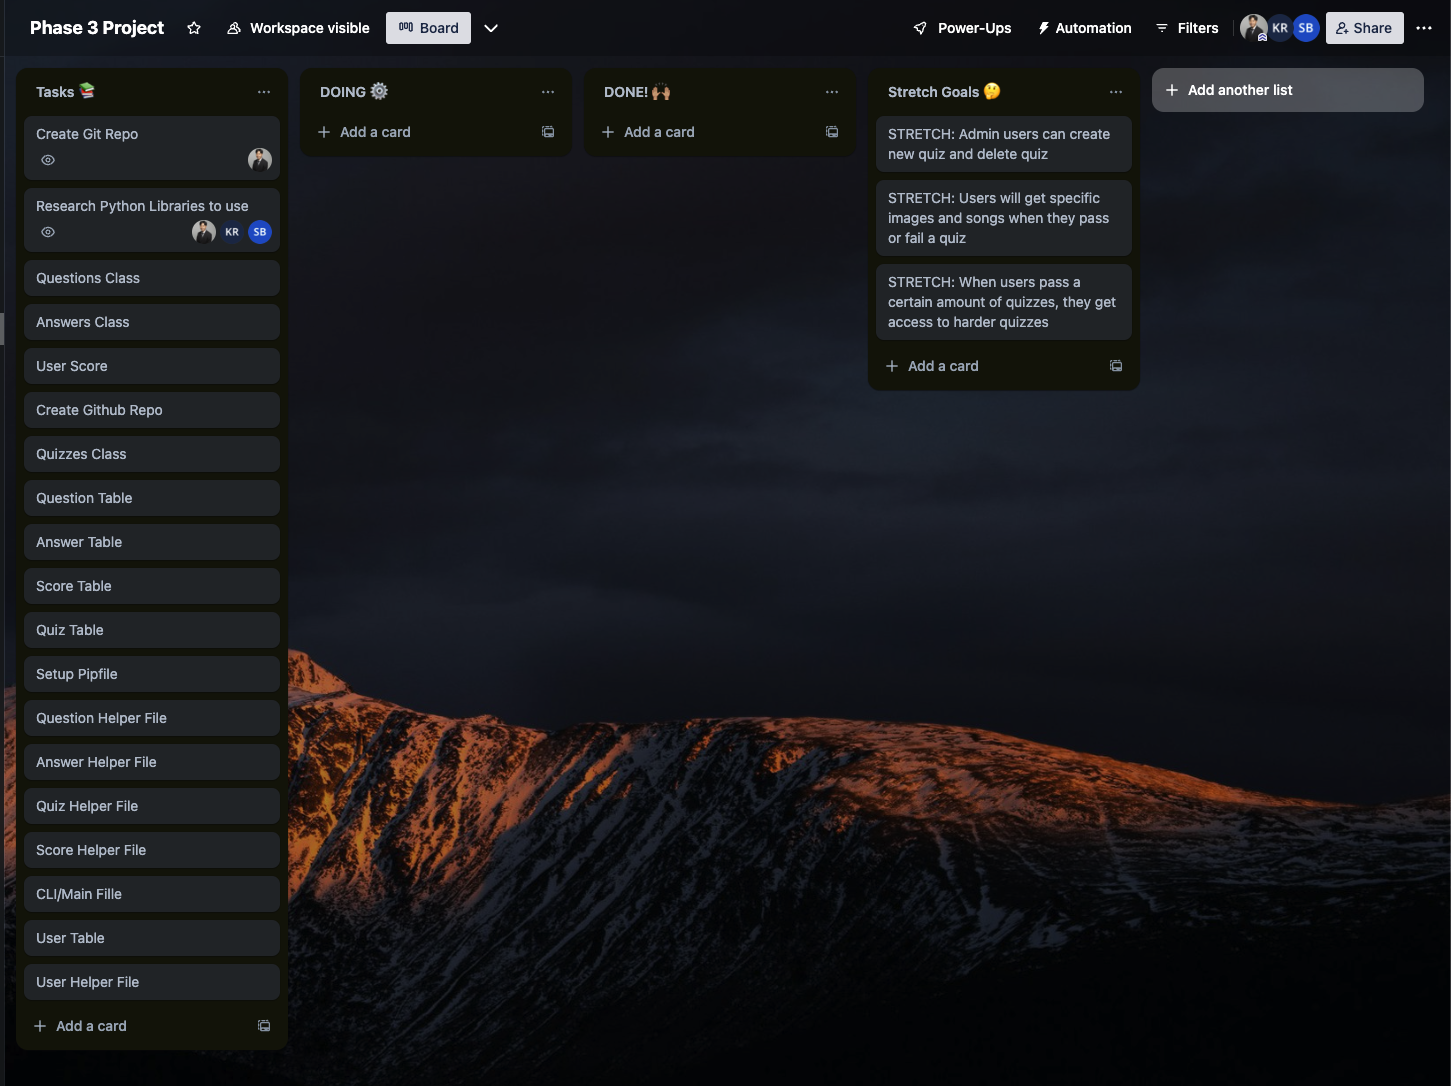
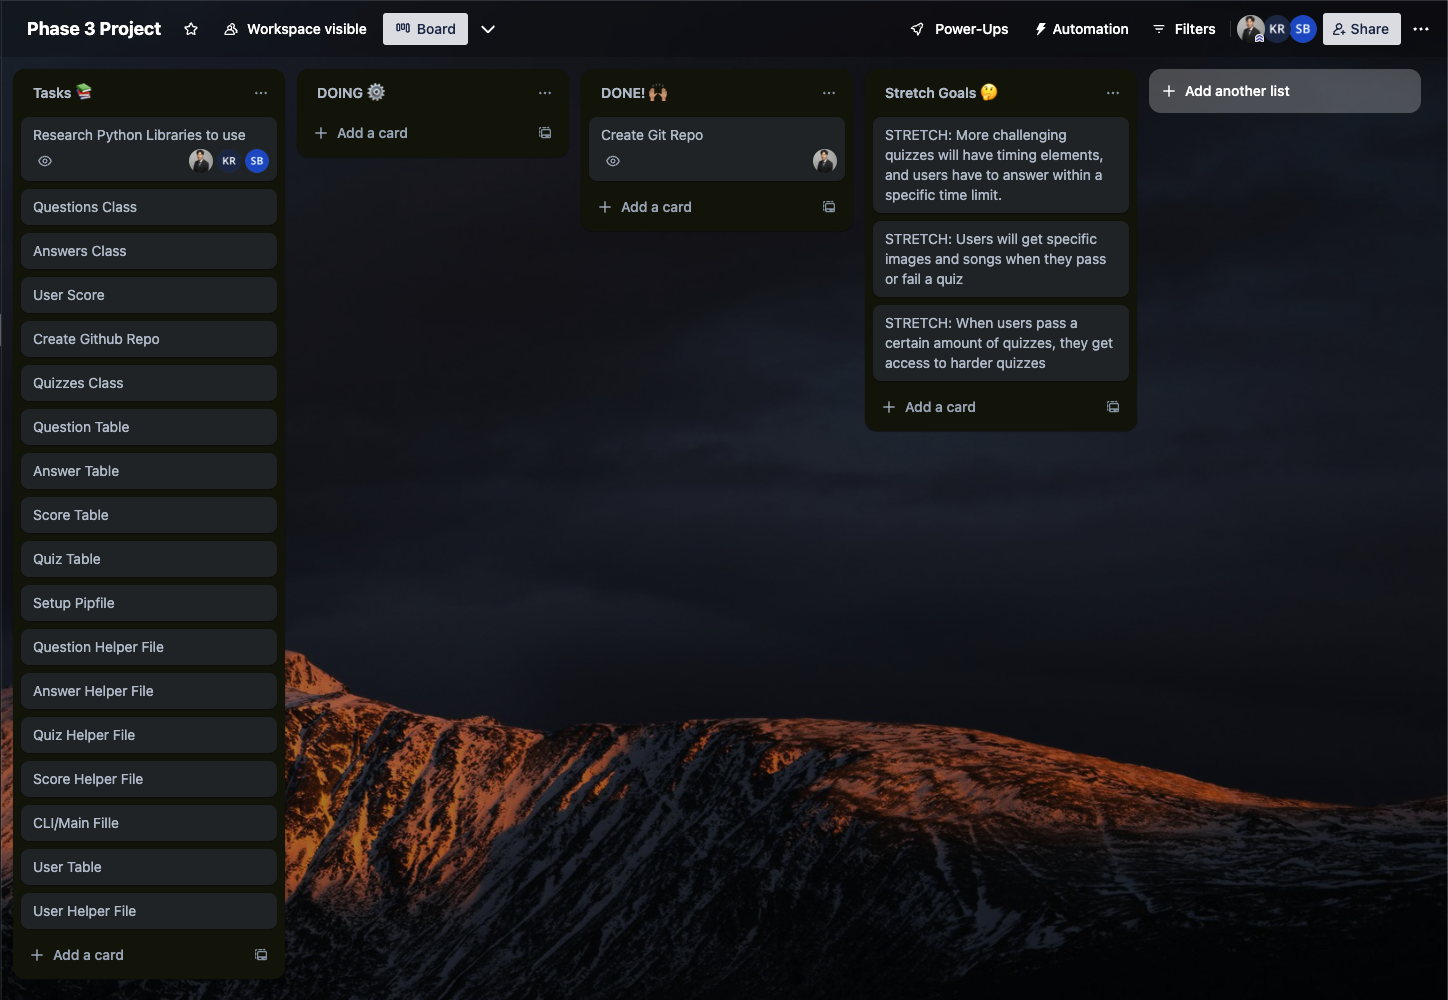
docs: Edit README file

diff --git a/README.md b/README.md
@@ -21,22 +21,37 @@ QuizSphere is a quiz application where users can choose a wide variety of quizze
 - Create
 
   - Create username
+  - Create quiz
   - Create questions to quiz
+  - Create list of answers to the questions
+  - Create score have quiz is finished
 
 - Read
 
   - List quizzes
+  - List a question one at a time during the quiz
   - List the answer options to the questions
   - List all of the scores from all of the quizzes from the user
-  - Only view the score for a specific quiz
+  - Find a score for a specific quiz
+  - Admin user can see all usernames on the quiz application
+  - Admin user can see all of the questions of a specific quiz
+  - Admin user can see a specific username and they score to the quizzes
 
 - Update
 
-  - Update questions
+  - Update username
+  - Update quiz
+  - Update questions to quiz
+  - Update answers to the questions
+  - Update score
 
 - Delete
 
-  - Delete questions
+  - Admin user can delete usernames
+  - Admin user can delete the score of a specific username
+  - Delete quiz
+  - Delete questions to quiz
+  - Delete answers to the questions
 
 ## Decision Tree
 
@@ -48,11 +63,11 @@ QuizSphere is a quiz application where users can choose a wide variety of quizze
 
 ## Stretch Goals
 
-1. Users can create new quizzes and topics.
+1. Users will get specific images and songs when they pass or fail a quiz.
 
-2. Users will get specific images and songs when they pass or fail a quiz.
+2. When users pass a certain amount of quizzes, they get granted access to more challenging quizzes.
 
-3. When users pass a certain amount of quizzes, they get granted access to more challenging quizzes.
+3. More challenging quizzes will have timing elements, and users have to answer within a specific time limit.
 
 ## Trello Board
 
